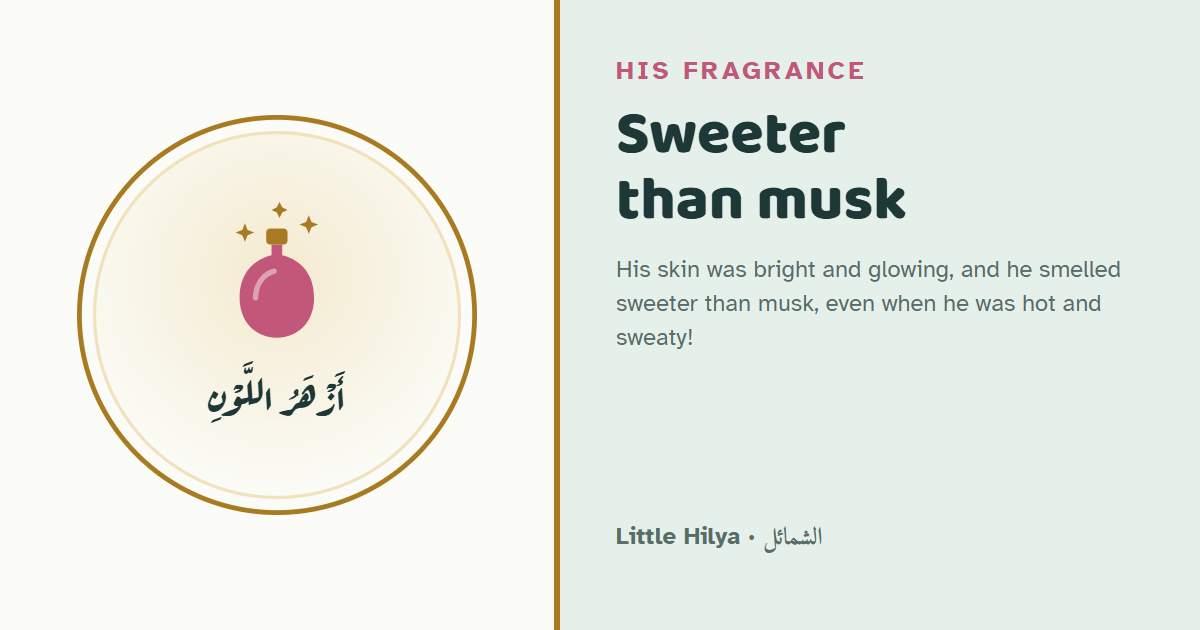
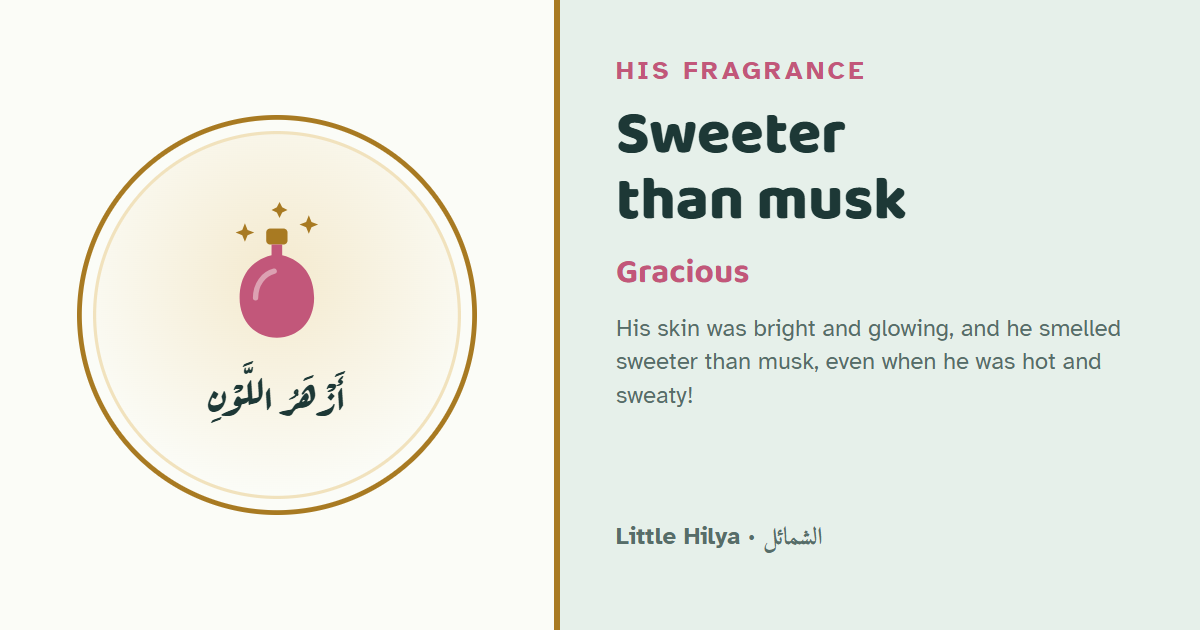
Take the fragrance description from Muslim and add a trait

Changed region(s): [[0.4933, 0.3921, 0.9558, 0.6635]]

diff --git a/src/data/stations/09-fragrance.ts b/src/data/stations/09-fragrance.ts
@@ -1,3 +1,4 @@
+import { draft } from "@/models/review";
 import { defineStation } from "@/models/station";
 
 export default defineStation({
@@ -9,9 +10,9 @@ export default defineStation({
   line: "His skin was bright and glowing, and he smelled sweeter than musk, even when he was hot and sweaty!",
   physical: [
     {
-      ref: "shamail:8",
-      phrase: "أَزْهَرُ اللَّوْنِ",
-      gloss: "He was bright of colour.",
+      ref: "muslim:2330b",
+      phrase: "أَزْهَرَ اللَّوْنِ كَأَنَّ عَرَقَهُ اللُّؤْلُؤُ",
+      gloss: "He was bright of colour, and his drops of sweat were like pearls.",
     },
     {
       ref: "shamail:344",
@@ -19,7 +20,15 @@ export default defineStation({
       gloss: "I never smelled musk or perfume more fragrant than his sweat.",
     },
   ],
-  character: [],
+  character: [
+    {
+      trait: "Gracious",
+      line: "Anas said he never turned down a gift of perfume.",
+      ref: "shamail:216",
+      basis: "reflection",
+      review: draft(),
+    },
+  ],
   signs: [
     {
       kind: "karama",

diff --git a/data/notes/stations.notes.md b/data/notes/stations.notes.md
@@ -17,7 +17,7 @@ Chapter 1 follows the long descriptions (#7 ‘Alī, #8 Hind) from head to toe. 
 | 7 | neck | ch1 #7, #8, #12 | mouth |
 | 8 | chest | ch1 #7, #8 | neck |
 | 9 | hands* | ch1 | |
-| 10 | fragrance* | ch1 #8 + ch48 | |
+| 10 | fragrance* | ch48 + muslim:2330b | |
 | 11 | feet | ch1 #8 + ch18 #122 + ch40 #260 | fragrance |
 | 12 | seal | ch2 #16–23 | feet |
 | 13 | hair | ch3–6 + ch1 #8 | seal |
